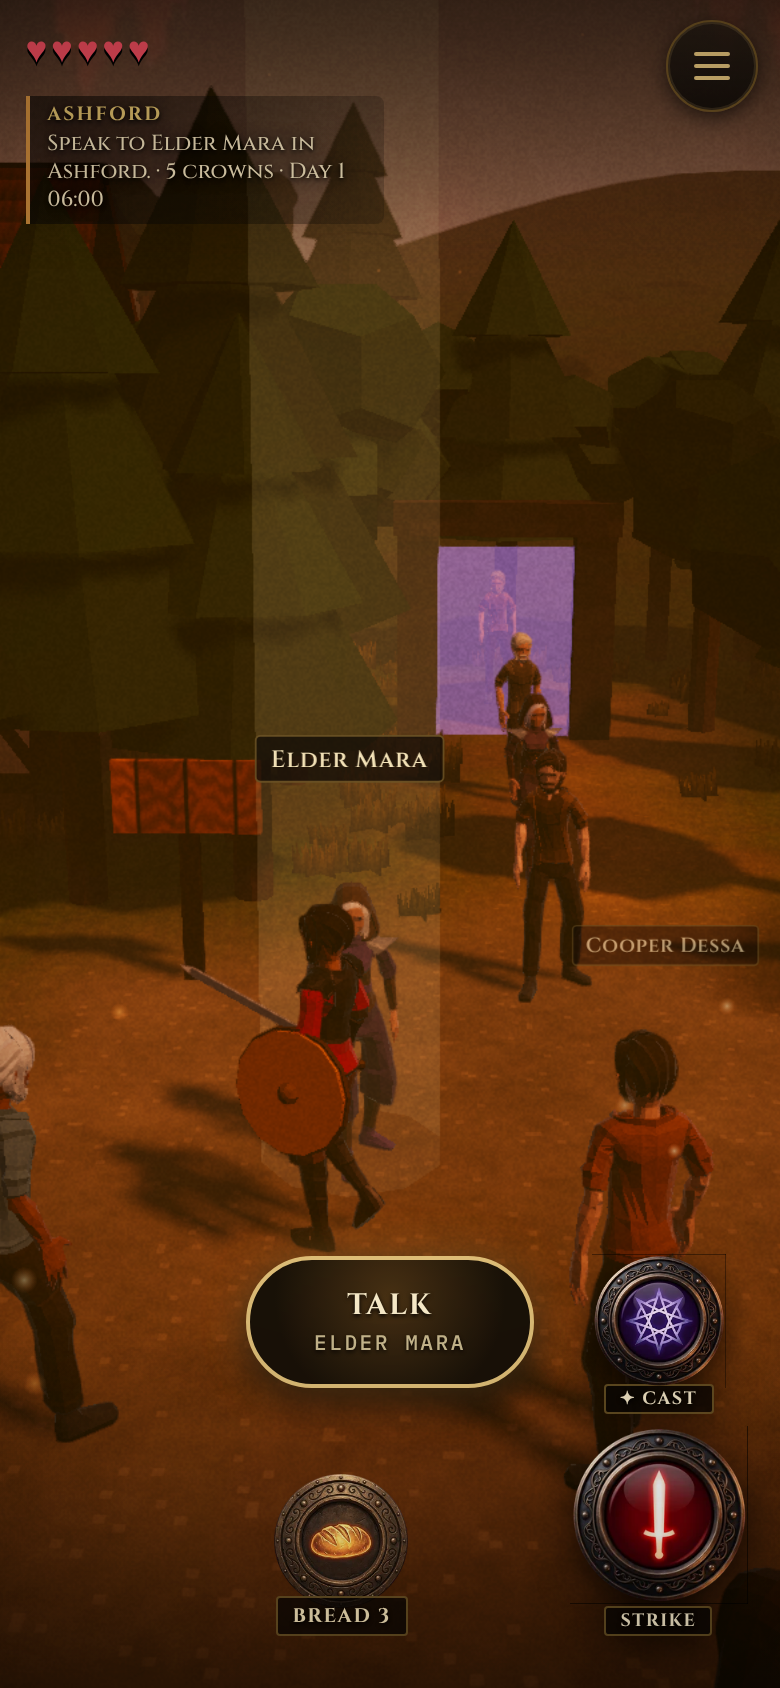
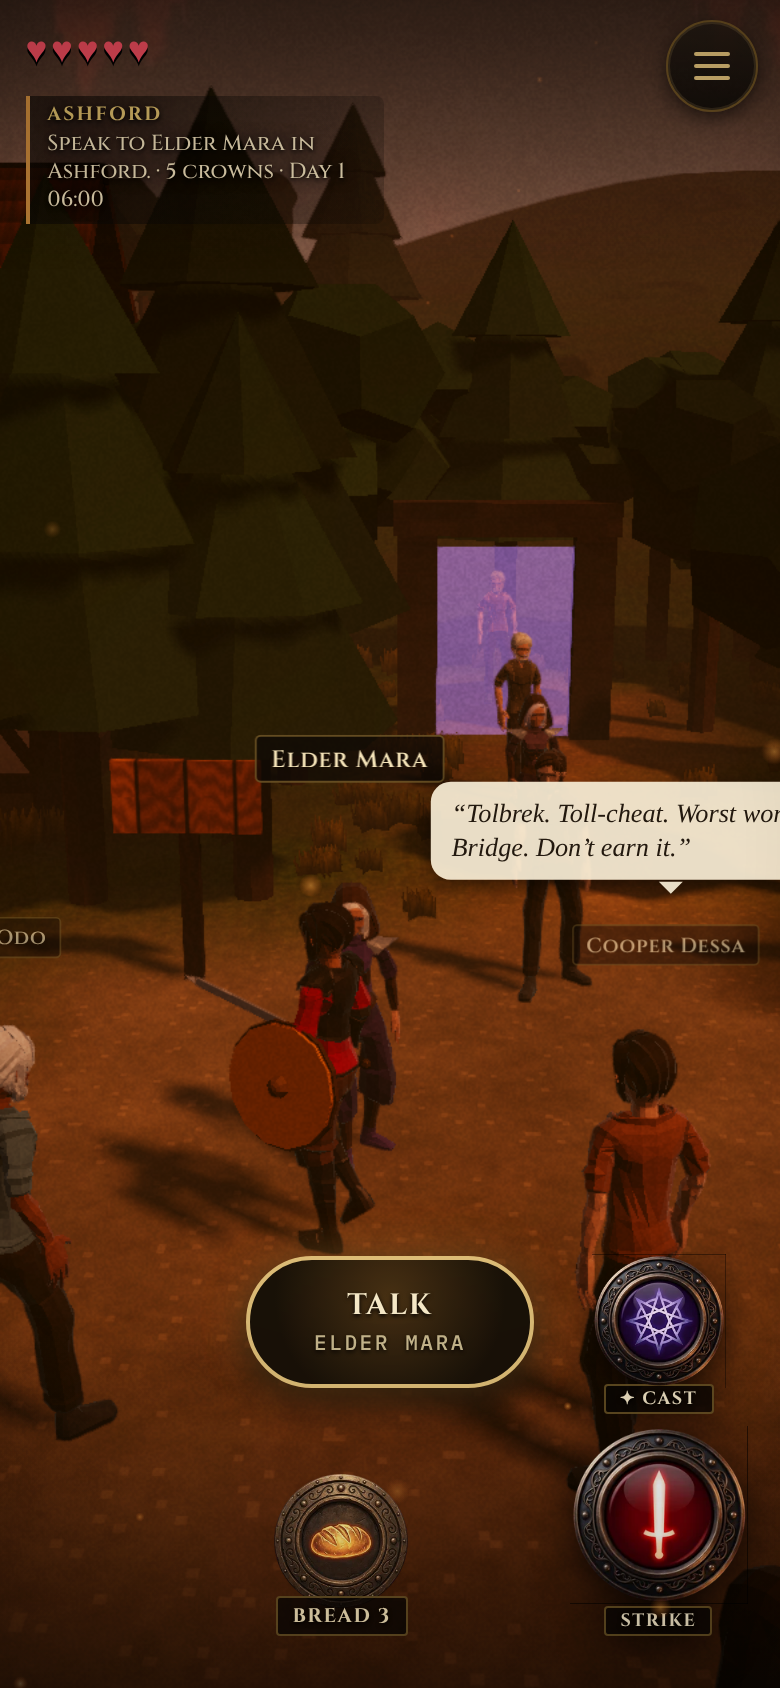
3D walk: short fading objective glow instead of the full-height pillar; gentler grade
- The objective beacon was a 22 m additive column that stayed faintly on even beside the target,
  so on High it read as a pale band down the middle of the view. It is now a 7 m glow that fades
  upward and only shows from more than 7 m away.
- High's Realm grade: tints and saturation pulled 30% back towards neutral, lift halved, and a
  gentle S-curve so blacks stay deep; dawn and dusk warmth reduced by about a third.
- Fresh after-walk screens in docs/screens/gfx-v3 at 844x390 and 390x844.

Claude-Session: https://claude.ai/code/session_01FujdSMxVzPQ7uudNthM6Kd

diff --git a/g3d/area3d.js b/g3d/area3d.js
@@ -140,9 +140,9 @@ function buildArea(st, api, A) {
     if (cave || !api.tod) return; const h = api.tod(); if (!(h >= 0)) return;
     const up = THREE.MathUtils.smoothstep(h, 4.5, 6.5) * (1 - THREE.MathUtils.smoothstep(h, 18.5, 20.5)), warm = Math.max(Math.exp(-Math.pow((h - 6.6) / 1.2, 2)), Math.exp(-Math.pow((h - 18.4) / 1.2, 2)));
     tod.night = 1 - up;
-    L.sun.intensity = tod.sunI * (0.35 + 0.65 * up); L.sun.color.copy(tod.sunC).lerp(WARM, warm * 0.45).lerp(NIGHT, tod.night * 0.6);
+    L.sun.intensity = tod.sunI * (0.35 + 0.65 * up); L.sun.color.copy(tod.sunC).lerp(WARM, warm * 0.3).lerp(NIGHT, tod.night * 0.6);
     L.hemi.intensity = tod.hemiI * (0.72 + 0.28 * up); L.hemi.color.copy(tod.hemiC).lerp(NIGHT, tod.night * 0.45);
-    if (L.sky) { const u = L.sky.material.uniforms; u.top.value.copy(tod.top).lerp(NSKY, tod.night * 0.7).lerp(WARM, warm * 0.08); u.hor.value.copy(tod.hor).lerp(WARM, warm * 0.18).lerp(NSKY, tod.night * 0.5); }
+    if (L.sky) { const u = L.sky.material.uniforms; u.top.value.copy(tod.top).lerp(NSKY, tod.night * 0.7).lerp(WARM, warm * 0.08); u.hor.value.copy(tod.hor).lerp(WARM, warm * 0.12).lerp(NSKY, tod.night * 0.5); }
   }
   timeOfDay();
   // the hero carries a lantern underground
@@ -428,8 +428,10 @@ function buildArea(st, api, A) {
   const orbMat = st.track(new THREE.MeshBasicMaterial({ color: 0xffb070 })), boltMat = st.track(new THREE.MeshBasicMaterial({ color: 0xc8a8ff }));
   const waveRing = new THREE.Mesh(st.track(new THREE.RingGeometry(0.85, 1, 40)), new THREE.MeshBasicMaterial({ color: 0xc8b0ff, transparent: true, opacity: 0.7, depthWrite: false, side: THREE.DoubleSide, blending: THREE.AdditiveBlending })); waveRing.rotation.x = -Math.PI / 2; waveRing.visible = false; scene.add(waveRing);
   // the objective: a soft pillar of light where the quest wants you
-  const beacon = new THREE.Mesh(st.track(new THREE.CylinderGeometry(0.3, 0.55, 22, 10, 1, true)), new THREE.MeshBasicMaterial({ color: 0xffe0a0, transparent: true, opacity: 0.08, depthWrite: false, side: THREE.DoubleSide, blending: THREE.AdditiveBlending, fog: false }));
-  beacon.position.y = 11; beacon.visible = false; scene.add(beacon);
+  // a short glow that fades upward (an alpha ramp), seen only from a distance: close by, the Talk pill and the marker say enough
+  const bAlpha = (() => { const c = document.createElement("canvas"); c.width = 2; c.height = 64; const x = c.getContext("2d"), gr = x.createLinearGradient(0, 64, 0, 0); gr.addColorStop(0, "#fff"); gr.addColorStop(1, "#000"); x.fillStyle = gr; x.fillRect(0, 0, 2, 64); return st.track(new THREE.CanvasTexture(c)); })();
+  const beacon = new THREE.Mesh(st.track(new THREE.CylinderGeometry(0.3, 0.5, 7, 10, 1, true)), new THREE.MeshBasicMaterial({ color: 0xffe0a0, alphaMap: bAlpha, transparent: true, opacity: 0.08, depthWrite: false, side: THREE.DoubleSide, blending: THREE.AdditiveBlending, fog: false }));
+  beacon.position.y = 3.5; beacon.visible = false; scene.add(beacon); let beaconOn = false;
   let beaconLab = labelSprite(st, " ", ""), beaconTxt = " "; beaconLab.visible = false; scene.add(beaconLab);
 
   // particles (ash, snow, motes) and the Void glow on the horizon
@@ -699,12 +701,12 @@ function buildArea(st, api, A) {
     if (frameN % 20 === 1) {
       const tp = api.target();
       if (tp && !inDlg) {
-        beacon.visible = true; beacon.position.set(tp.x * PX, 11, (tp.y + 8) * PX); const lab = tp.lab || "";
+        beaconOn = true; beacon.visible = true; beacon.position.set(tp.x * PX, 3.5, (tp.y + 8) * PX); const lab = tp.lab || "";
         if (lab !== beaconTxt) { beaconTxt = lab; scene.remove(beaconLab); const nl = labelSprite(st, lab || "Here", "your objective"); beaconLab = nl; scene.add(nl); }
         beaconLab.position.set(tp.x * PX, 3.9, (tp.y + 8) * PX); beaconLab.visible = !!lab;
-      } else { beacon.visible = false; beaconLab.visible = false; }
+      } else { beaconOn = false; beacon.visible = false; beaconLab.visible = false; }
     }
-    if (beacon.visible) { const d = Math.hypot(beacon.position.x - hx, beacon.position.z - hz); beacon.material.opacity = 0.02 + 0.07 * clamp((d - 4) / 14, 0, 1); beaconLab.material.opacity = clamp((d - 3) / 4, 0, 1); }
+    if (beacon.visible) { const d = Math.hypot(beacon.position.x - hx, beacon.position.z - hz); beacon.material.opacity = 0.08 * clamp((d - 7) / 12, 0, 1); beacon.visible = beacon.material.opacity > 0.003; beaconLab.material.opacity = clamp((d - 3) / 4, 0, 1); }
 
     // culling: far chunks off
     if (!small && frameN % 8 === 0) for (const c of chunks) c.grp.visible = Math.hypot(c.x - hx, c.z - hz) < 72;
@@ -736,6 +738,6 @@ function buildArea(st, api, A) {
       if (best) heroYaw = Math.atan2(best.x, best.y);
       return best || { x: fx, y: fz };
     },
-    state: () => ({ x: A.p.x, y: A.p.y, hp: A.p.hp, foes: foes.size, npcs: npcs.length, marks: npcs.filter((o) => o.mark).length, beacon: beacon.visible, chunks: chunks.length, doors: doors.length, use: useAct ? useAct.l + "|" + (useAct.n || "") : "", frames: st.frames, dlg: api.inDlg() })
+    state: () => ({ x: A.p.x, y: A.p.y, hp: A.p.hp, foes: foes.size, npcs: npcs.length, marks: npcs.filter((o) => o.mark).length, beacon: beaconOn, chunks: chunks.length, doors: doors.length, use: useAct ? useAct.l + "|" + (useAct.n || "") : "", frames: st.frames, dlg: api.inDlg() })
   };
 }

diff --git a/g3d/post.js b/g3d/post.js
@@ -63,6 +63,7 @@ void main(){
   float l = dot(c, vec3(0.2126, 0.7152, 0.0722));
   c = c * gain * mix(vec3(1.0), hi, smoothstep(0.35, 0.95, l)) + lift * (1.0 - l);
   c = mix(vec3(dot(c, vec3(0.2126, 0.7152, 0.0722))), c, sat);
+  c = clamp(c, 0.0, 1.0); c = mix(c, c * c * (3.0 - 2.0 * c), 0.18); // a gentle S-curve: deeper shadows, cleaner mid contrast
   gl_FragColor = vec4(toSRGB(clamp(c, 0.0, 1.0)), 1.0);
 }`;
 
@@ -88,7 +89,8 @@ export function makePost(renderer) {
   function pass(m, target) { quad.material = m; renderer.setRenderTarget(target); renderer.render(sc, cam); }
   const post = {
     hdr,
-    setGrade(key) { const g = GRADE[key] || GRADE.none, u = mComp.uniforms; u.gain.value.fromArray(g.gain); u.lift.value.fromArray(g.lift); u.hi.value.fromArray(g.hi); u.sat.value = g.sat; },
+    // the tints are pulled 30% back towards neutral and the lift halved, so the blacks stay deep and figures read
+    setGrade(key) { const g = GRADE[key] || GRADE.none, u = mComp.uniforms, k = (v) => v.map((x) => 1 + (x - 1) * 0.7); u.gain.value.fromArray(k(g.gain)); u.lift.value.fromArray(g.lift.map((x) => x * 0.5)); u.hi.value.fromArray(k(g.hi)); u.sat.value = 1 + (g.sat - 1) * 0.7; },
     render(scene, camera) {
       size();
       const ar = renderer.autoClear; renderer.autoClear = true;
